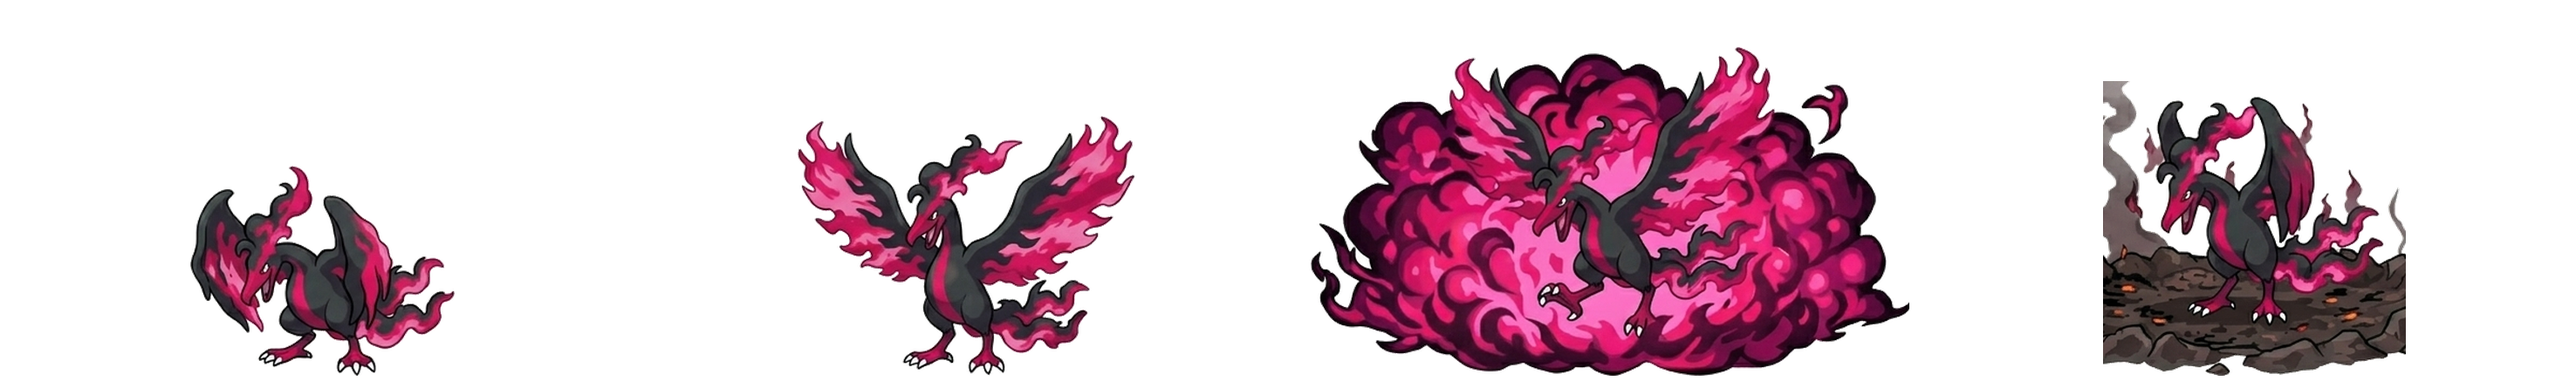
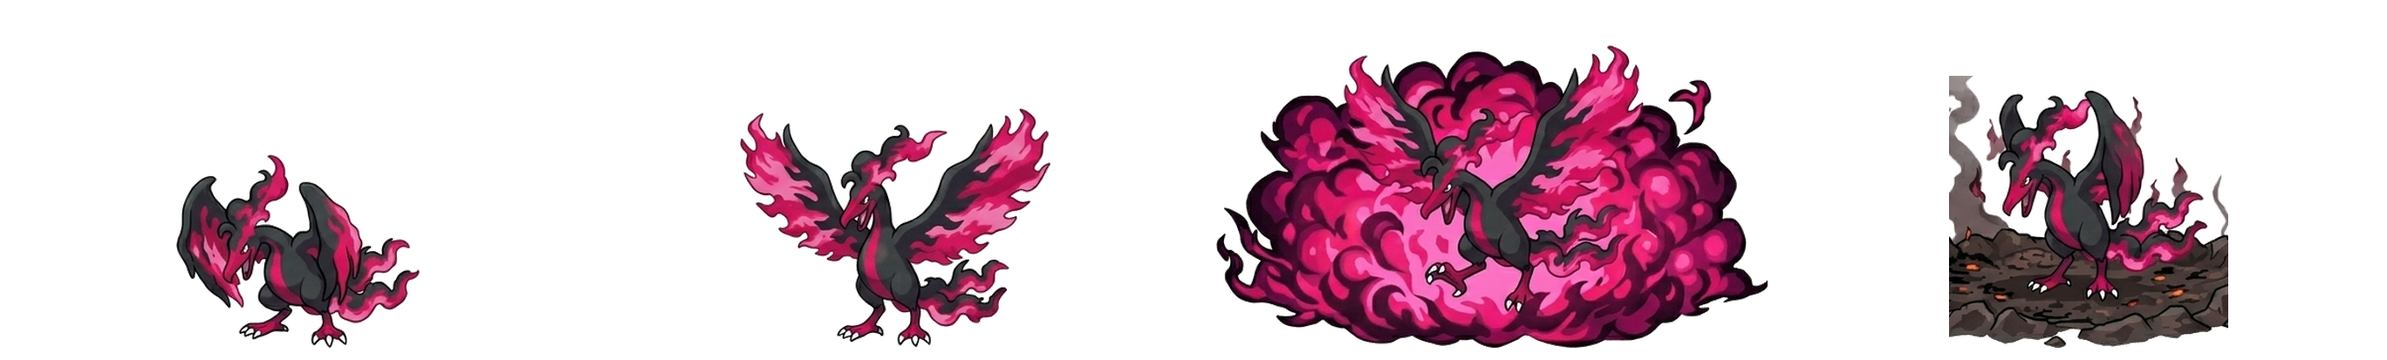
Add Galarian Moltres Air Slash cast strip; finalize shared geometry
All four Moltres sequences (Fiery Wrath, Air Slash, Dark Pulse, Hurricane) now
rebuild together to the final shared cell (ch=413); FX preserved, clean 14px
baseline on every frame. BOSS_SEQ updated for all four. Cast art complete — only
the projectile sheet remains before wiring the L5 duel.

diff --git a/sparkrunmath.html b/sparkrunmath.html
@@ -173,10 +173,11 @@ const BOSS_SEQ = {
   'sciz_swordsdance.png':{ file:'sciz_seq_sd.png', cw:408, ch:348 },
   'sciz_bulletpunch.png':{ file:'sciz_seq_bp.png', cw:572, ch:348 },
   'sciz_airslash.png':   { file:'sciz_seq_as.png', cw:312, ch:348 },
-  // Galarian Moltres move strips (white-bg sheets via tools/extract_moltres.py; shared cell ch=445)
-  'moltres_fierywrath.png': { file:'moltres_seq_fw.png', cw:738, ch:445 },
-  'moltres_darkpulse.png':  { file:'moltres_seq_dp.png', cw:742, ch:445 },
-  'moltres_hurricane.png':  { file:'moltres_seq_hr.png', cw:384, ch:445 },
+  // Galarian Moltres move strips (white-bg sheets via tools/extract_moltres.py; shared cell ch=413)
+  'moltres_fierywrath.png': { file:'moltres_seq_fw.png', cw:684, ch:413 },
+  'moltres_airslash.png':   { file:'moltres_seq_as.png', cw:338, ch:413 },
+  'moltres_darkpulse.png':  { file:'moltres_seq_dp.png', cw:689, ch:413 },
+  'moltres_hurricane.png':  { file:'moltres_seq_hr.png', cw:358, ch:413 },
 };
 for(const k in BOSS_SEQ){ const s=BOSS_SEQ[k]; s.n=4; s.img=new Image(); s.ready=false; s.img.onload=()=>{ s.ready=true; }; s.img.src=s.file; }
 const BOSS_X = 760, BOSS_Y = 232, BOSS_H = 280;   // boss anchor + on-screen height
